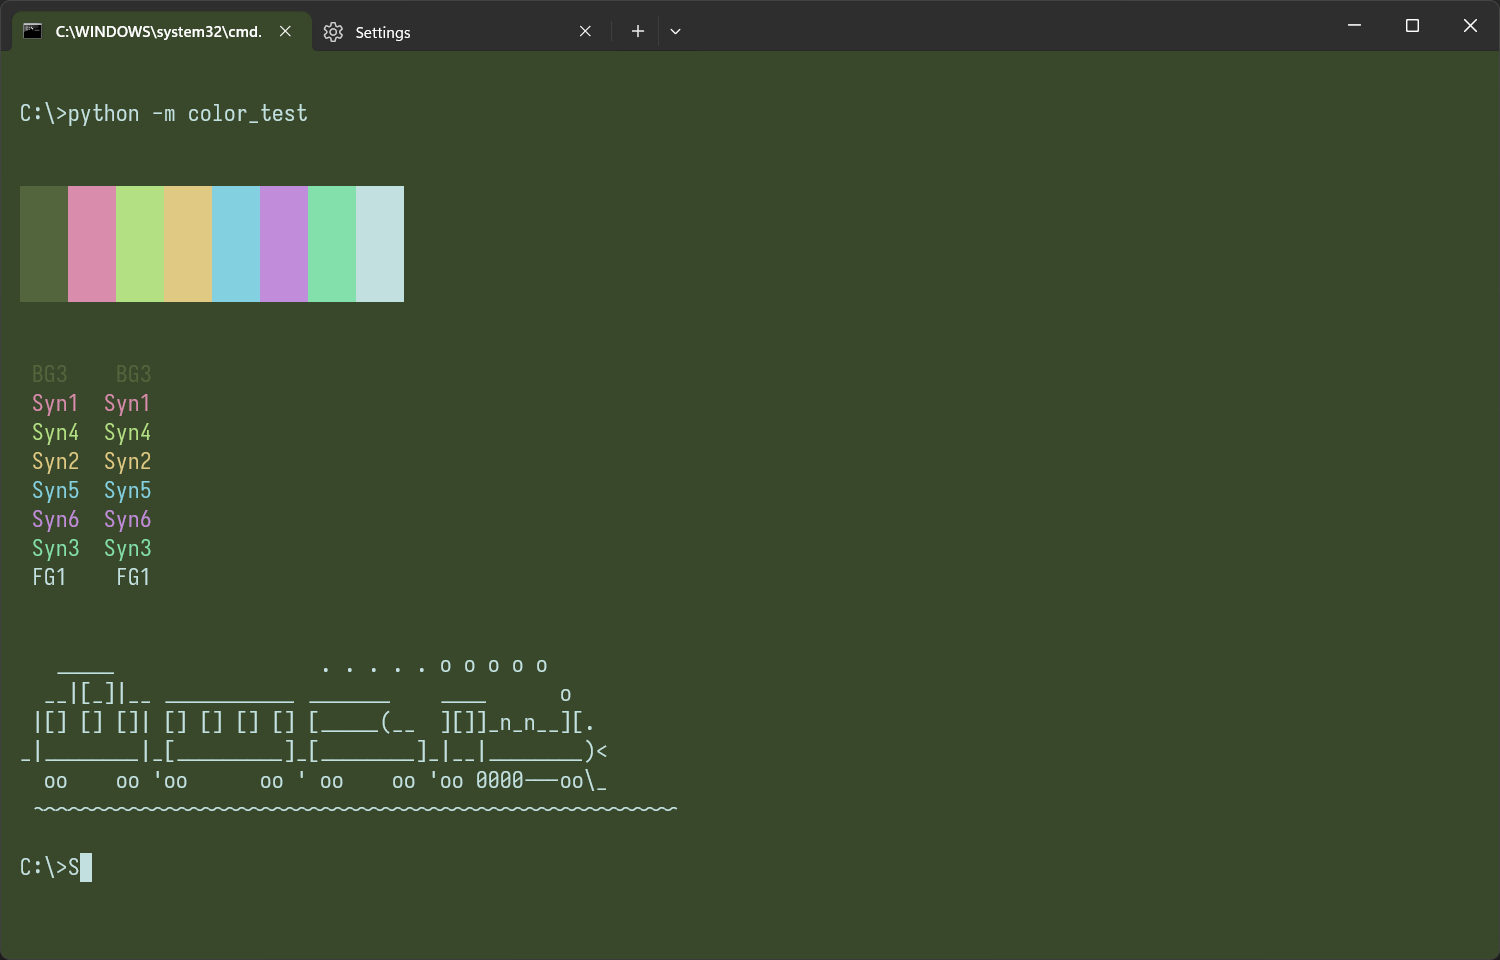
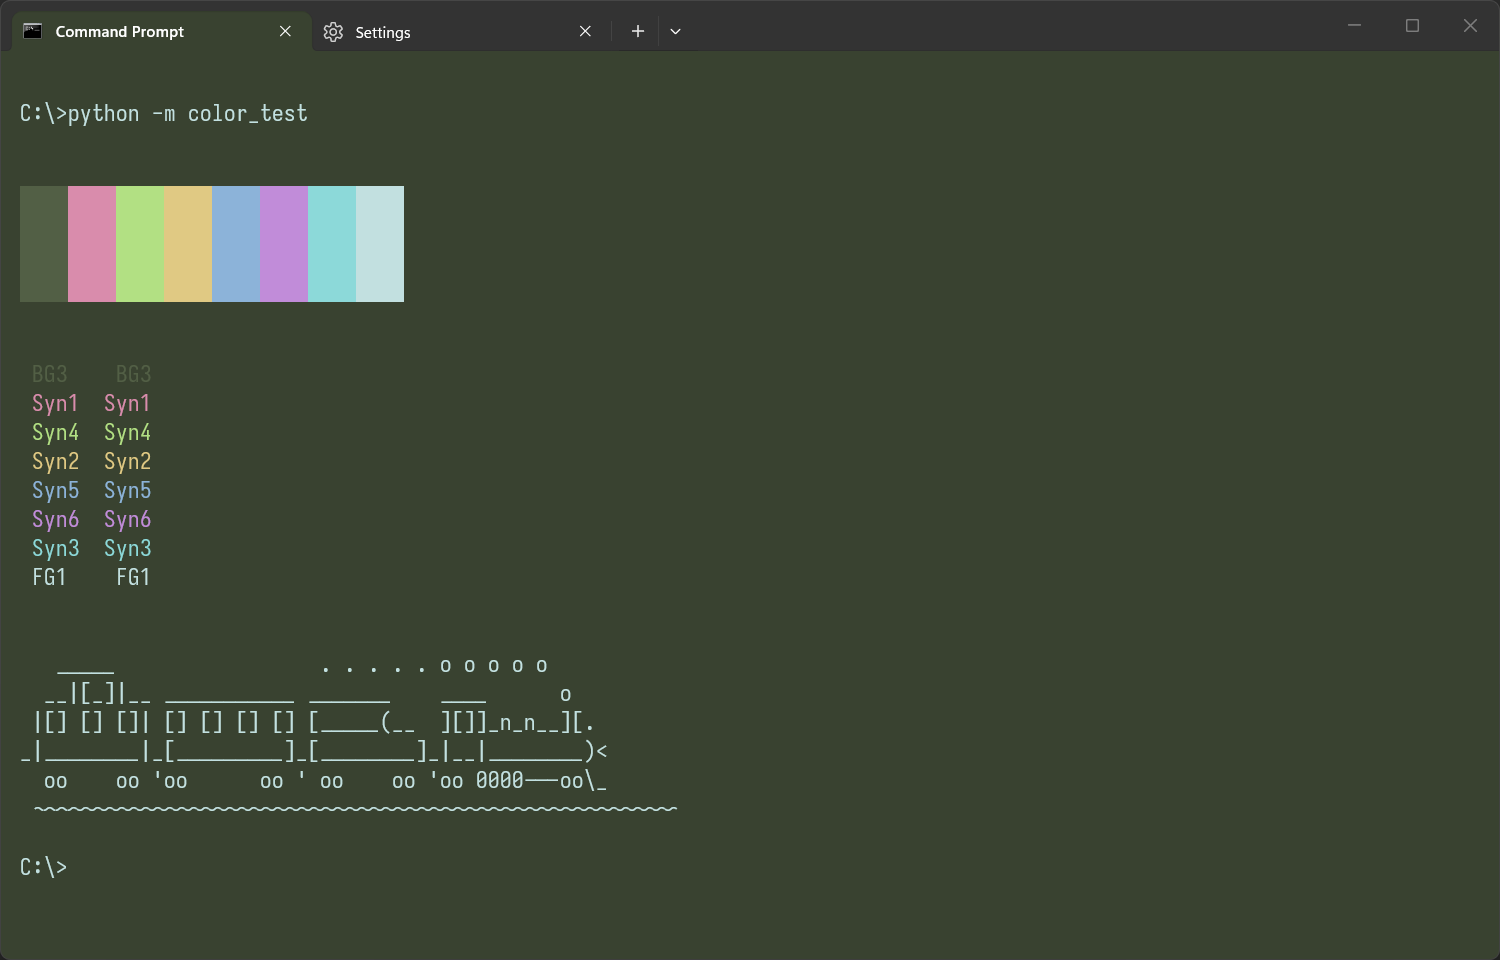
rework cloud forest theme

diff --git a/scheme_files/other/cloud-forest.html b/scheme_files/other/cloud-forest.html
@@ -26,18 +26,18 @@ this template is meant as a reference sheet for your color theme
 			</tr>
 			<tr>
 				<td>Background - 1st level<br><a>UI: default text bg</a></td>
-				<td>#39472B</td>
-				<td style="background-color:#39472B;"></td>
+				<td>#394230</td>
+				<td style="background-color:#394230;"></td>
 			</tr>
 			<tr>
 				<td>Background - 2nd level<br><a>UI: inactive tab or file bg, 2nd level surfaces bg</a></td>
-				<td>#465633</td>
-				<td style="background-color:#465633;"></td>
+				<td>#45503a</td>
+				<td style="background-color:#45503a;"></td>
 			</tr>
 			<tr>
 				<td>Background - 3rd level<br><a>UI: separators, other bg symbols</a></td>
-				<td>#53653D</td>
-				<td style="background-color:#53653D;"></td>
+				<td>#525f45</td>
+				<td style="background-color:#525f45;"></td>
 			</tr>
 			<tr>
 				<td>Foreground - 1st level<br><a>UI: cursor
@@ -94,8 +94,8 @@ this template is meant as a reference sheet for your color theme
 			</tr>
 			<tr>
 				<td>syntax 3<br><a>SYNTAX: opertors, variables, identifiers<br>TERMINAL: cyan</a></td>
-				<td>#83E0AA</td>
-				<td style="background-color:#83E0AA;"></td>
+				<td>#8cd9d9</td>
+				<td style="background-color:#8cd9d9;"></td>
 			</tr>
 			<tr>
 				<td>syntax 4<br><a>UI: change history saved
@@ -105,8 +105,8 @@ this template is meant as a reference sheet for your color theme
 			</tr>
 			<tr>
 				<td>syntax 5<br><a>SYNTAX: keys, types, class, groups, sections, preprocessor<br>TERMINAL: blue</a></td>
-				<td>#83D0E0</td>
-				<td style="background-color:#83D0E0;"></td>
+				<td>#8cb3d9</td>
+				<td style="background-color:#8cb3d9;"></td>
 			</tr>
 			<tr>
 				<td>syntax 6<br><a>SYNTAX: qualifier, numbers, booleans, attributes<br>TERMINAL: magenta (purple)</a></td>
